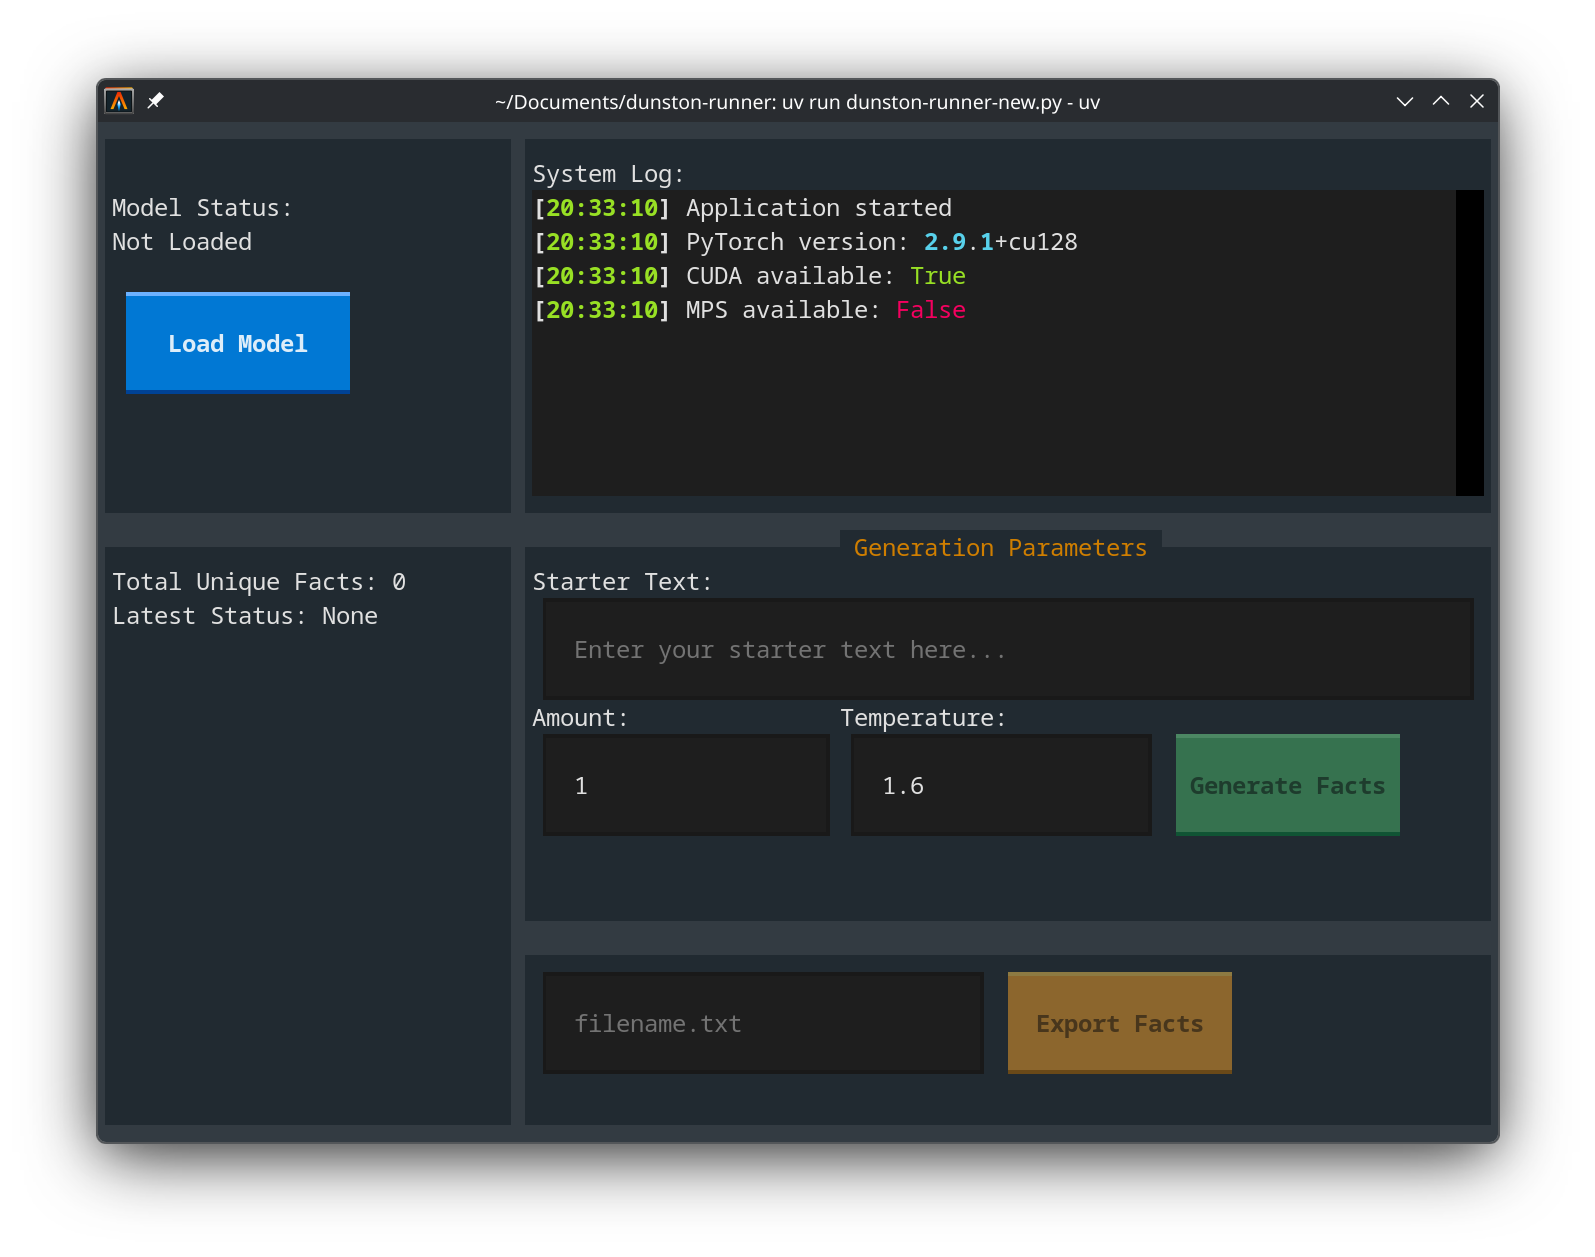
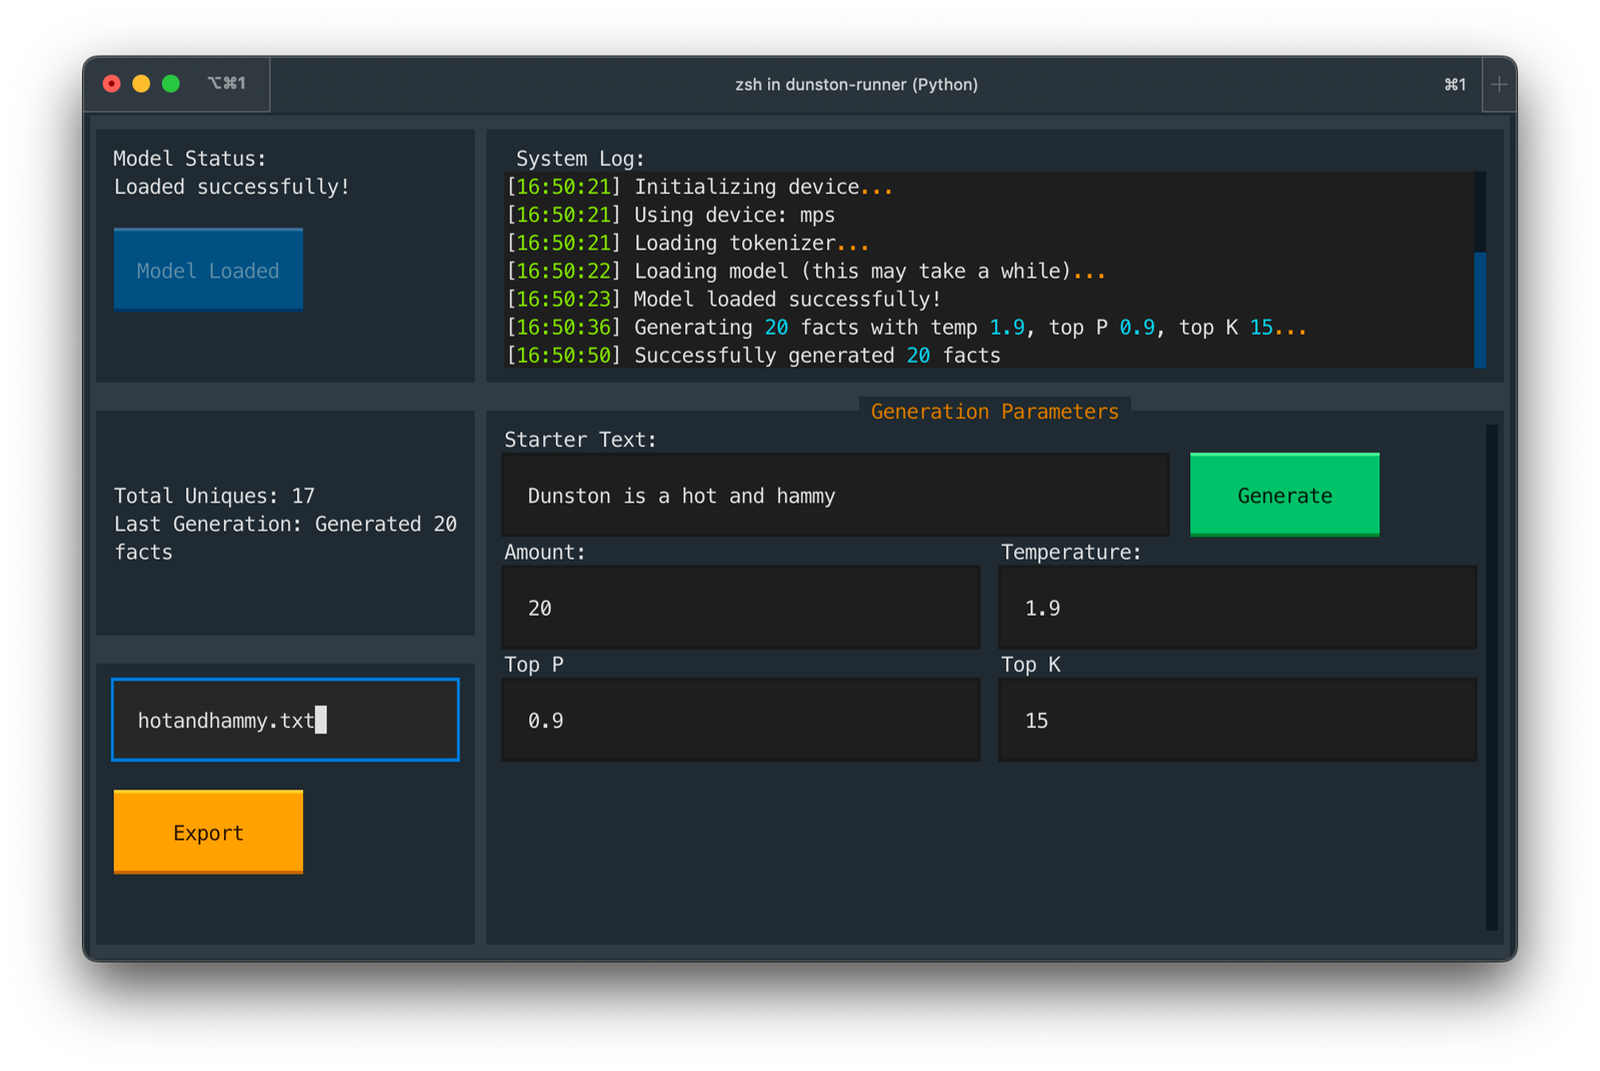
slight UI reorganization and added more generation parameters

diff --git a/dunston-runner.py b/dunston-runner.py
@@ -17,7 +17,7 @@ from contextlib import redirect_stdout, redirect_stderr
 from io import StringIO
 
 from textual.app import App, ComposeResult
-from textual.containers import Container, Horizontal, Vertical, Center, Middle, CenterMiddle
+from textual.containers import Container, Horizontal, Vertical, Center, Middle, CenterMiddle, VerticalScroll
 from textual.widgets import Footer, Input, Button, Static, Label, RichLog
 from textual.binding import Binding
 import asyncio
@@ -52,18 +52,22 @@ class ModelApp(App):
             with CenterMiddle():
                 yield Static("Model Status:")
                 yield Static("Not Loaded", id="model-status")
-                yield Button("Load Model", id="load-model", variant="primary")
-        with Container(name="System Log", classes="box"):
+                yield Button("Load Model", id="load-model", flat=False, variant="primary")
+        with Container(name="System Log", classes="box", id="syslog"):
             yield Label("System Log:")
             yield RichLog(id="system-log", wrap=True, highlight=True)
         with Container(name="Status", classes="box", id="status"):
-            yield Static("Total Unique Facts: 0", id="facts-count")
+            yield Static("Total Uniques: 0", id="facts-count")
             yield Static("Latest Status: None", id="last-generation")
-        pbox = Container(name="Params", classes="box", id="central-box")
+        pbox = VerticalScroll(name="Params", classes="box", id="central-box")
         pbox.border_title = "Generation Parameters"
         with pbox:
-            yield Label("Starter Text:")
-            yield Input(placeholder="Enter your starter text here...", id="starter-input")
+            yield Label("Starter Text:")          
+
+            with Horizontal(classes="params-row"):
+
+                yield Input(placeholder="Enter your starter text here...", id="starter-input")
+                yield Button("Generate", id="generate-btn", flat=False, variant="success", disabled=True)
             
             with Horizontal(classes="params-row"):
                 with Vertical(classes="param-group"):
@@ -72,13 +76,19 @@ class ModelApp(App):
                 with Vertical(classes="param-group"):
                     yield Label("Temperature:")
                     yield Input(value="1.6", placeholder="1.6", id="temp-input")
-                with Vertical():
-                    yield Button("Generate Facts", id="generate-btn", variant="success", disabled=True)
+
+            with Horizontal(classes="params-row"):
+                with Vertical(classes="param-group"):
+                    yield Label("Top P")
+                    yield Input(value="0.9", placeholder="0.9", id="top-p-input")
+                with Vertical(classes="param-group"):
+                    yield Label("Top K")
+                    yield Input(value="20", placeholder="20", id="top-k-input")
                  
         with Container(name="Export", classes="box", id="export"):
-            with Horizontal():
+            with Vertical():
                 yield Input(placeholder="filename.txt", id="filename-input")
-                yield Button("Export Facts", id="export-btn", variant="warning", disabled=True)
+                yield Button("Export", id="export-btn", flat=False, variant="warning", disabled=True)
 
 
     async def on_mount(self) -> None:
@@ -224,17 +234,21 @@ class ModelApp(App):
         try:
             amount = int(self.query_one("#amount-input").value or "1")
             temp = float(self.query_one("#temp-input").value or "1.6")
+            top_k = int(self.query_one("#top-k-input").value or "20")
+            top_p = float(self.query_one("#top-p-input").value or "0.9")
         except ValueError:
             self.query_one("#last-generation").update("Last Generation: Error - Invalid amount or temperature")
             return
         
         self.query_one("#last-generation").update("Last Generation: Generating...")
-        self.add_log(f"Generating {amount} facts with temperature {temp}...")
+        self.add_log(f"Generating {amount} facts with temp {temp}, top P {top_p}, top K {top_k}...")
         
         # Store values as instance variables to access in worker
         self._current_starter = starter
         self._current_amount = amount
         self._current_temp = temp
+        self._current_top_k = top_k
+        self._current_top_p = top_p
         
         # Use Textual's worker system
         self.run_worker(self._generate_facts_worker, exclusive=True)
@@ -246,7 +260,8 @@ class ModelApp(App):
         
         try:
             with redirect_stdout(stdout_capture), redirect_stderr(stderr_capture):
-                generated_count = self.make_fact(self._current_starter, self._current_amount, self._current_temp)
+                generated_count = self.make_fact(self._current_starter, self._current_amount, 
+                                                 self._current_temp, self._current_top_k, self._current_top_p)
             
             # Log any captured output
             self._log_captured_output(stdout_capture, stderr_capture)
@@ -265,7 +280,7 @@ class ModelApp(App):
             self.add_log(f"Generation ERROR: {error_msg}")
 
     @torch.inference_mode()
-    def make_fact(self, starter: str, amount: int = 1, temp: float = 1.6):
+    def make_fact(self, starter: str, amount: int = 1, temp: float = 1.6, top_k: int = 20, top_p: float = 0.9 ):
         """Generate facts using the model."""
         begin = "<s>"
         input_text = f"{begin}{starter}"
@@ -280,9 +295,9 @@ class ModelApp(App):
             inputs.input_ids, 
             attention_mask=inputs.attention_mask, 
             do_sample=True, 
-            top_k=20,
+            top_k=top_k,
             max_length=150, 
-            top_p=0.9, 
+            top_p=top_p, 
             temperature=temp, 
             num_return_sequences=amount
         )
@@ -305,7 +320,7 @@ class ModelApp(App):
     def update_facts_display(self) -> None:
         """Update the facts count display."""
         unique_count = len(set(self.facts))
-        self.query_one("#facts-count").update(f"Total Unique Facts: {unique_count}")
+        self.query_one("#facts-count").update(f"Total Uniques: {unique_count}")
 
     def export_facts(self) -> None:
         """Export facts to file."""
